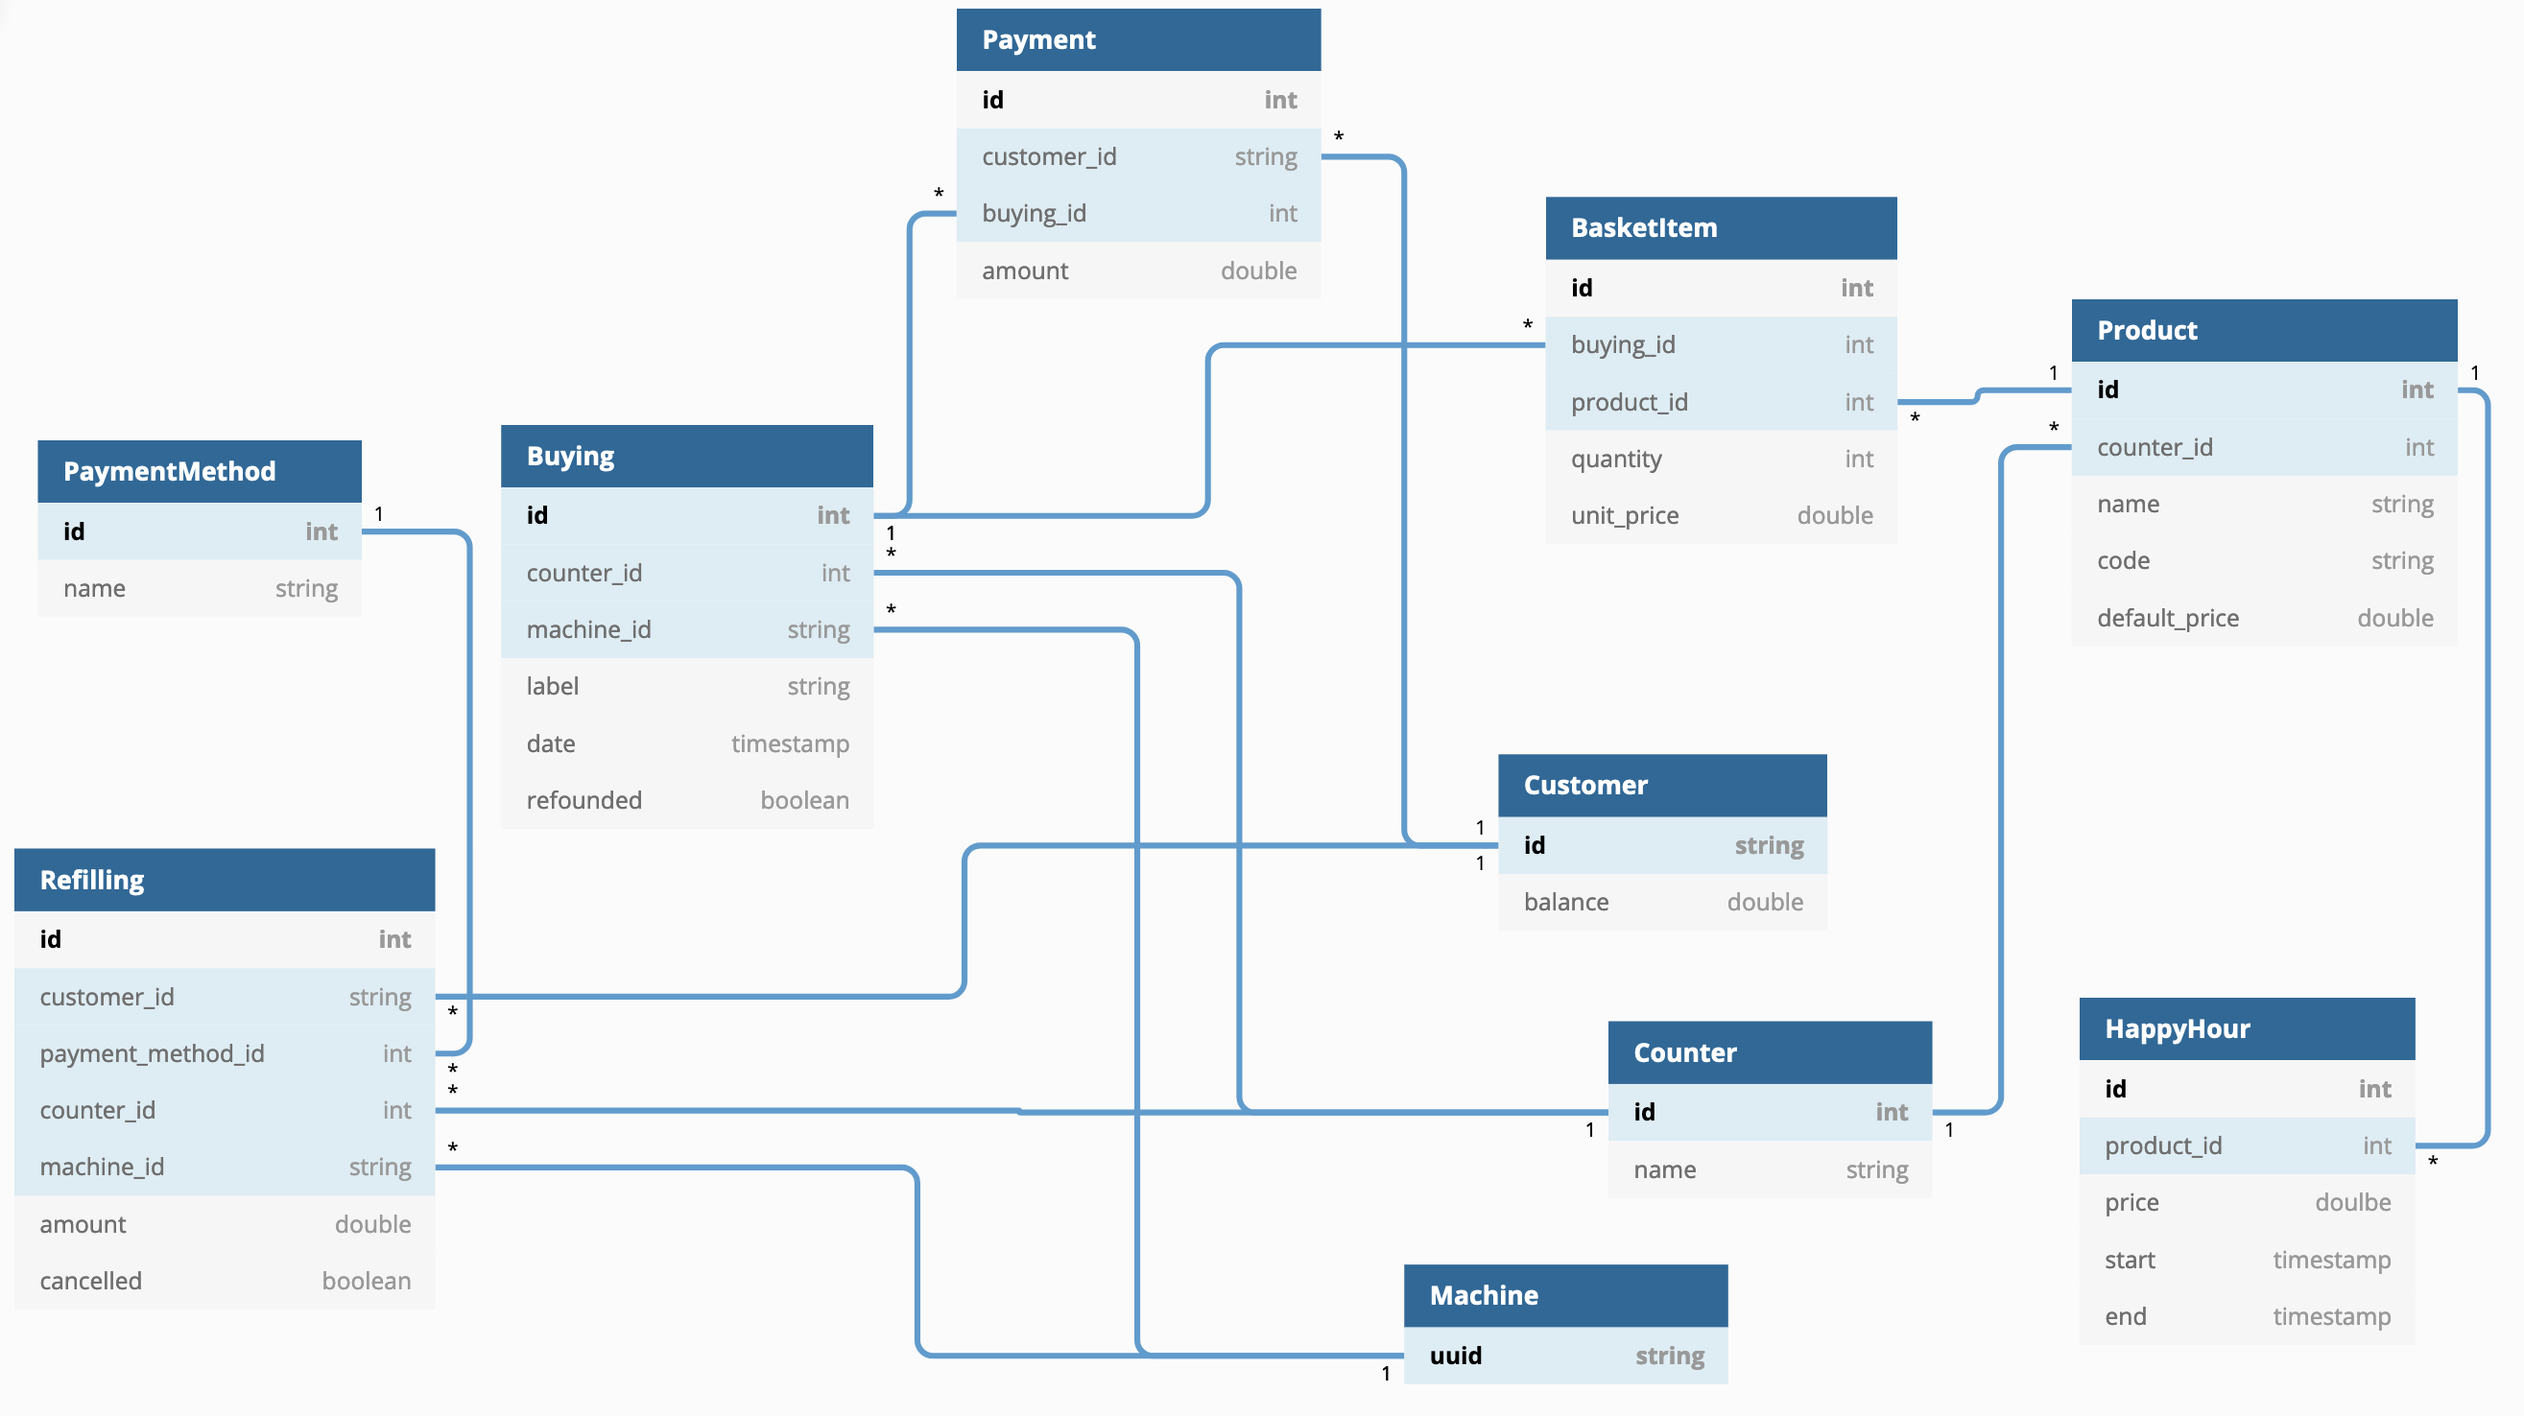
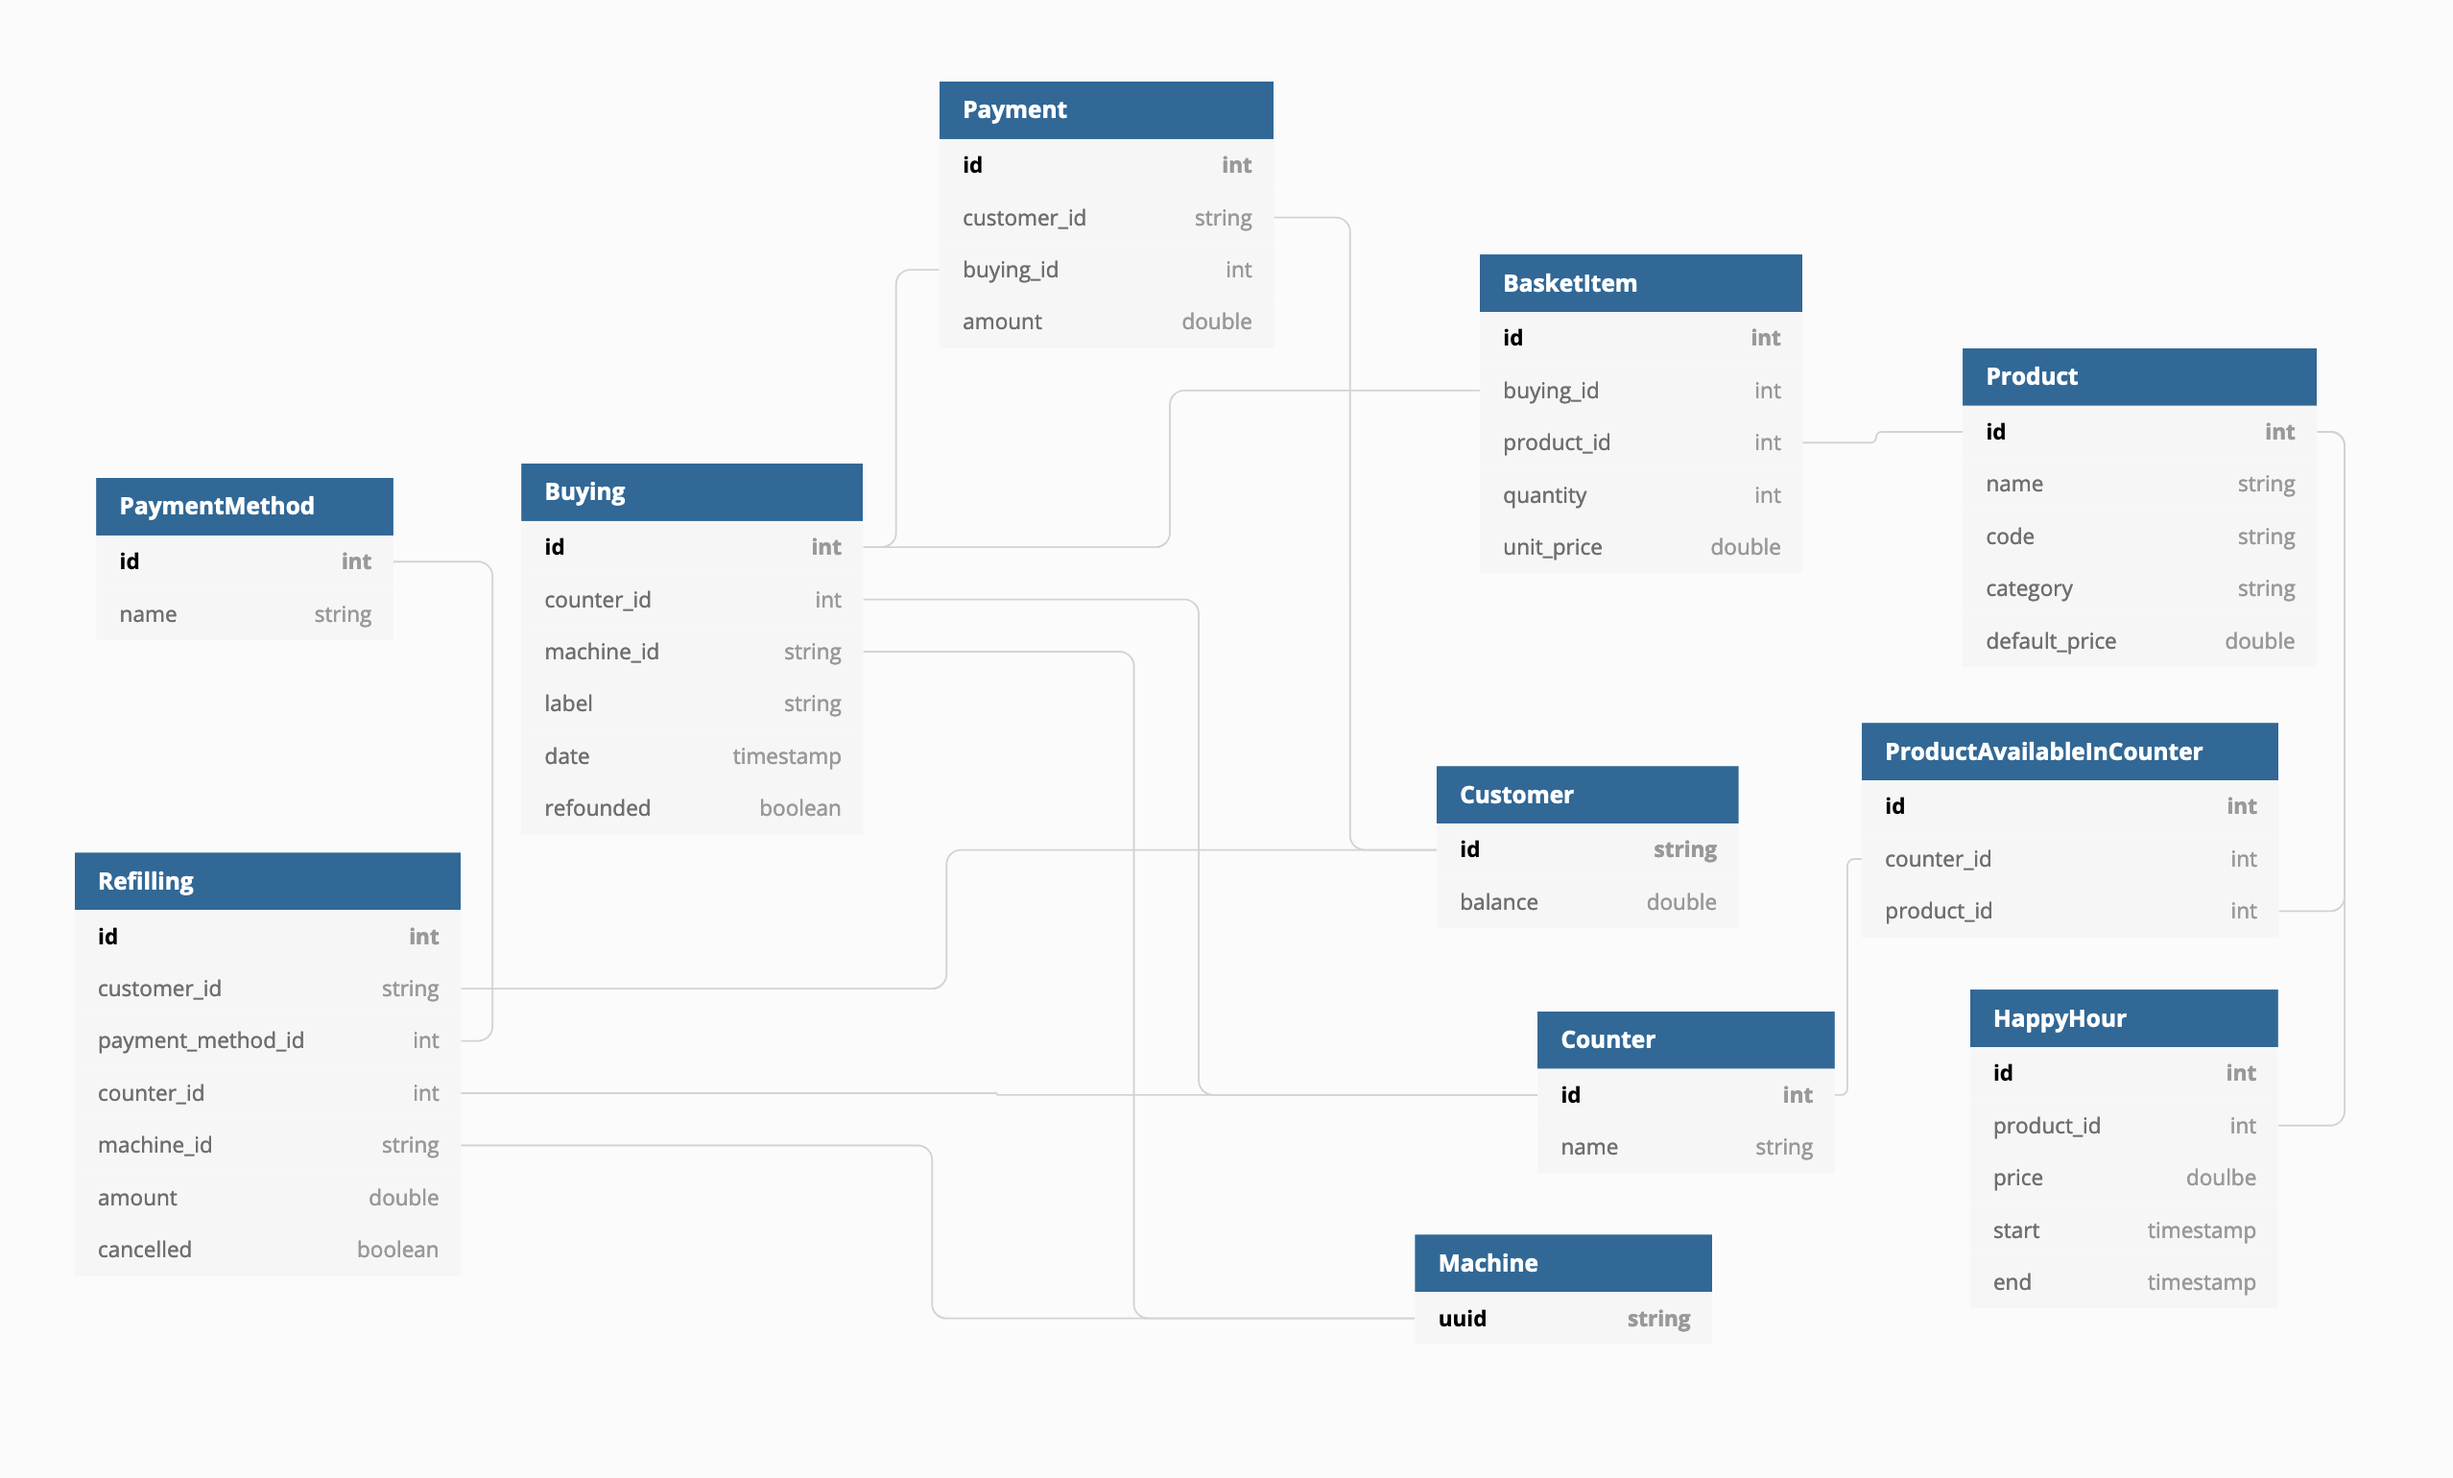
server: implement database scheme with sqlalchemy

diff --git a/server/server/models.py b/server/server/models.py
@@ -1,0 +1,199 @@
+# -*- coding:utf-8 -*
+from datetime import datetime
+
+from sqlalchemy import (
+    Column,
+    Integer,
+    String,
+    Float,
+    Boolean,
+    DateTime,
+    ForeignKey,
+)
+from sqlalchemy.orm import relationship, backref
+
+from server import Model
+
+
+class Customer(Model):
+    """
+        Customer class
+        A customer is associated to a NFC card and informs about its balance
+    """
+
+    __tablename__ = "customers"
+    id = Column(String, primary_key=True, unique=True, autoincrement=False)
+    balance = Column(Float)
+
+
+class Machine(Model):
+    """
+        Individual machine creating operations
+        Used for logging operations
+    """
+
+    __tablename__ = "machines"
+    uuid = Column(String, primary_key=True, unique=True, autoincrement=False)
+
+
+class Counter(Model):
+    """
+        Physical counter during the event
+        This refers to the physical location the machine are placed
+        This restricts what you can buy on a given machine
+    """
+
+    __tablename__ = "counters"
+    id = Column(Integer, primary_key=True, unique=True, autoincrement=True)
+    name = Column(String)
+
+
+class Product(Model):
+    """
+        Product available for customers to buy
+    """
+
+    __tablename__ = "products"
+    id = Column(Integer, primary_key=True, unique=True, autoincrement=True)
+    name = Column(String)  # Real fancy name
+    code = Column(String)  # Slugified name
+    category = Column(String)  # Dot separated string for the category main.sub.category
+    default_price = Column(Float)
+
+
+class HappyHour(Model):
+    """
+        Reduced price for a given period of time for a specified product
+    """
+
+    __tablename__ = "happy_hours"
+    id = Column(Integer, primary_key=True, unique=True, autoincrement=True)
+    product_id = Column(Integer, ForeignKey("products.id"))
+    product = relationship(
+        "Product", backref=backref("happy_hours", lazy=True), lazy=True
+    )
+    price = Column(Float)
+    start = Column(DateTime(timezone=True))
+    end = Column(DateTime(timezone=True))
+
+
+class ProductAvailableInCounter(Model):
+    """
+        Link a product with a counter
+        Allow to have the same product in multiple counters
+    """
+
+    __tablename__ = "products_available_in_counters"
+    id = Column(Integer, primary_key=True, unique=True, autoincrement=True)
+    counter_id = Column(Integer, ForeignKey("counters.id"))
+    counter = relationship(
+        "Counter", backref=backref("products_available", lazy=True), lazy=True
+    )
+    product_id = Column(Integer, ForeignKey("products.id"))
+    product = relationship(
+        "Product", backref=backref("counters_available", lazy=True), lazy=True
+    )
+
+
+class PaymentMethod(Model):
+    """
+        Contains payment methods, it's mapped against the ENUM in protobuf files
+        Generated at the setup step
+    """
+
+    __tablename__ = "payment_methods"
+    id = Column(Integer, primary_key=True, unique=True, autoincrement=False)
+    name = Column(String)
+
+
+class Refilling(Model):
+    """
+        Refill a customer account
+    """
+
+    __tablename__ = "refillings"
+    id = Column(Integer, primary_key=True, unique=True, autoincrement=True)
+
+    customer_id = Column(Integer, ForeignKey("customers.id"))
+    customer = relationship(
+        "Customer", backref=backref("refillings", lazy=True), lazy=True
+    )
+
+    payment_method_id = Column(Integer, ForeignKey("payment_methods.id"))
+    customer = relationship(
+        "PaymentMethod", backref=backref("refillings", lazy=True), lazy=True
+    )
+
+    counter_id = Column(Integer, ForeignKey("counters.id"))
+    counter = relationship(
+        "Counter", backref=backref("refillings", lazy=True), lazy=True
+    )
+
+    machine_id = Column(Integer, ForeignKey("machines.uuid"))
+    machine = relationship(
+        "Machine", backref=backref("refillings", lazy=True), lazy=True
+    )
+
+    amount = Column(Float)
+    cancelled = Column(Boolean, default=False)
+
+
+class Buying(Model):
+    """
+        Buying from one or multiple customers at once
+        This is a final transaction fixed in time
+    """
+
+    __tablename__ = "buyings"
+    id = Column(Integer, primary_key=True, unique=True, autoincrement=True)
+
+    counter_id = Column(Integer, ForeignKey("counters.id"))
+    counter = relationship("Counter", backref=backref("buyings", lazy=True), lazy=True)
+
+    machine_id = Column(Integer, ForeignKey("machines.uuid"))
+    machine = relationship("Machine", backref=backref("buyings", lazy=True), lazy=True)
+
+    label = Column(String)
+    date = Column(DateTime(timezone=True), default=datetime.utcnow)
+    refounded = Column(Boolean, default=False)
+
+
+class BasketItem(Model):
+    """
+        One element of a basket associated to a Buying
+    """
+
+    __tablename__ = "basket_items"
+    id = Column(Integer, primary_key=True, unique=True, autoincrement=True)
+
+    buying_id = Column(Integer, ForeignKey("buyings.id"))
+    buying = relationship(
+        "Buying", backref=backref("basket_items", lazy=True), lazy=True
+    )
+
+    product_id = Column(Integer, ForeignKey("products.id"))
+    product = relationship(
+        "Product", backref=backref("basket_items", lazy=True), lazy=True
+    )
+
+    quantity = Column(Integer)
+    unit_price = Column(Float)  # Unit price of the product at the time of purchase
+
+
+class Payment(Model):
+    """
+        Amount spent par each customer involved in a buying
+    """
+
+    __tablename__ = "payments"
+    id = Column(Integer, primary_key=True, unique=True, autoincrement=True)
+
+    customer_id = Column(Integer, ForeignKey("customers.id"))
+    customer = relationship(
+        "Customer", backref=backref("payments", lazy=True), lazy=True
+    )
+
+    buying_id = Column(Integer, ForeignKey("buyings.id"))
+    buying = relationship("Buying", backref=backref("payments", lazy=True), lazy=True)
+
+    amount = Column(Float)  # Amount spent by this user in the Buying

diff --git a/server/manage.py b/server/manage.py
@@ -1,0 +1,63 @@
+#!/usr/bin/env python3
+# -*- coding:utf-8 -*
+import os
+
+import click
+
+
+@click.group()
+def protoc_group():
+    pass
+
+
+@click.group()
+def setup_group():
+    pass
+
+
+@click.group()
+def random_key_group():
+    pass
+
+
+@setup_group.command(name="protoc", help="Generate protoc files")
+def protoc():
+    from subprocess import Popen
+
+    Popen(
+        "python -m grpc_tools.protoc -I%s --python_out=%s --grpc_python_out=%s %s"
+        % ("../protos", "./server/", "./server/", "../protos/com.proto"),
+        shell=True,
+    )
+
+
+@setup_group.command(name="setup", help="Generate database")
+@click.option("--import", "-i", default=None, help="Import initial data from json file")
+def setup(**kwargs):
+    from server import settings, db, Model, engine, com_pb2, models
+
+    if os.path.exists(settings.DB_PATH):
+        print("Deleting database")
+        os.remove(settings.DB_PATH)
+    print("Creating database")
+
+    Model.metadata.create_all(bind=engine)
+
+    print("Creating payment methods")
+    db.add(models.PaymentMethod(id=com_pb2.PaymentMethod.UNKNOWN, name="inconnu"))
+    db.add(models.PaymentMethod(id=com_pb2.PaymentMethod.CASH, name="espèces"))
+    db.add(models.PaymentMethod(id=com_pb2.PaymentMethod.CARD, name="carte"))
+    db.add(models.PaymentMethod(id=com_pb2.PaymentMethod.CHECK, name="chèque"))
+    db.add(models.PaymentMethod(id=com_pb2.PaymentMethod.AE, name="AE"))
+    db.add(models.PaymentMethod(id=com_pb2.PaymentMethod.TRANSFER, name="transfert"))
+    db.add(models.PaymentMethod(id=com_pb2.PaymentMethod.OTHER, name="autre"))
+
+    if kwargs["import"] is not None:
+        print("TODO: import data from %s" % kwargs["import"])
+
+    db.commit()
+    print("Database successfully created")
+
+
+if __name__ == "__main__":
+    click.CommandCollection(sources=[setup_group, random_key_group])()

diff --git a/server/server/__init__.py b/server/server/__init__.py
@@ -1,0 +1,12 @@
+# -*- coding:utf-8 -*
+from . import settings
+
+from sqlalchemy import create_engine
+from sqlalchemy.orm import scoped_session, sessionmaker
+from sqlalchemy.ext.declarative import declarative_base
+
+engine = create_engine("sqlite:///%s" % settings.DB_PATH, convert_unicode=True)
+db = scoped_session(sessionmaker(autocommit=False, autoflush=False, bind=engine))
+
+Model = declarative_base()
+Model.query = db.query_property()

diff --git a/server/server/settings.py b/server/server/settings.py
@@ -1,0 +1,11 @@
+# -*- coding:utf-8 -*
+import sys
+
+DB_PATH = "database.sqlite"
+
+try:
+    from .settings_custom import *
+
+    print("Custom settings imported", file=sys.stderr)
+except:
+    print("Custom settings failed", file=sys.stderr)

diff --git a/server/service.py b/server/service.py
@@ -1,0 +1,4 @@
+#!/usr/bin/env python3
+# -*- coding:utf-8 -*
+
+print("hello")

diff --git a/server/README.md b/server/README.md
@@ -1,0 +1,11 @@
+# Installation
+
+```bash
+virtualenv python=python3 env
+source env/bin/activate
+pip install -r requirements.txt
+
+./manage.py protoc # Generate protobuf files
+./manage.py setup # Generate database
+./manage.py runserver
+```
